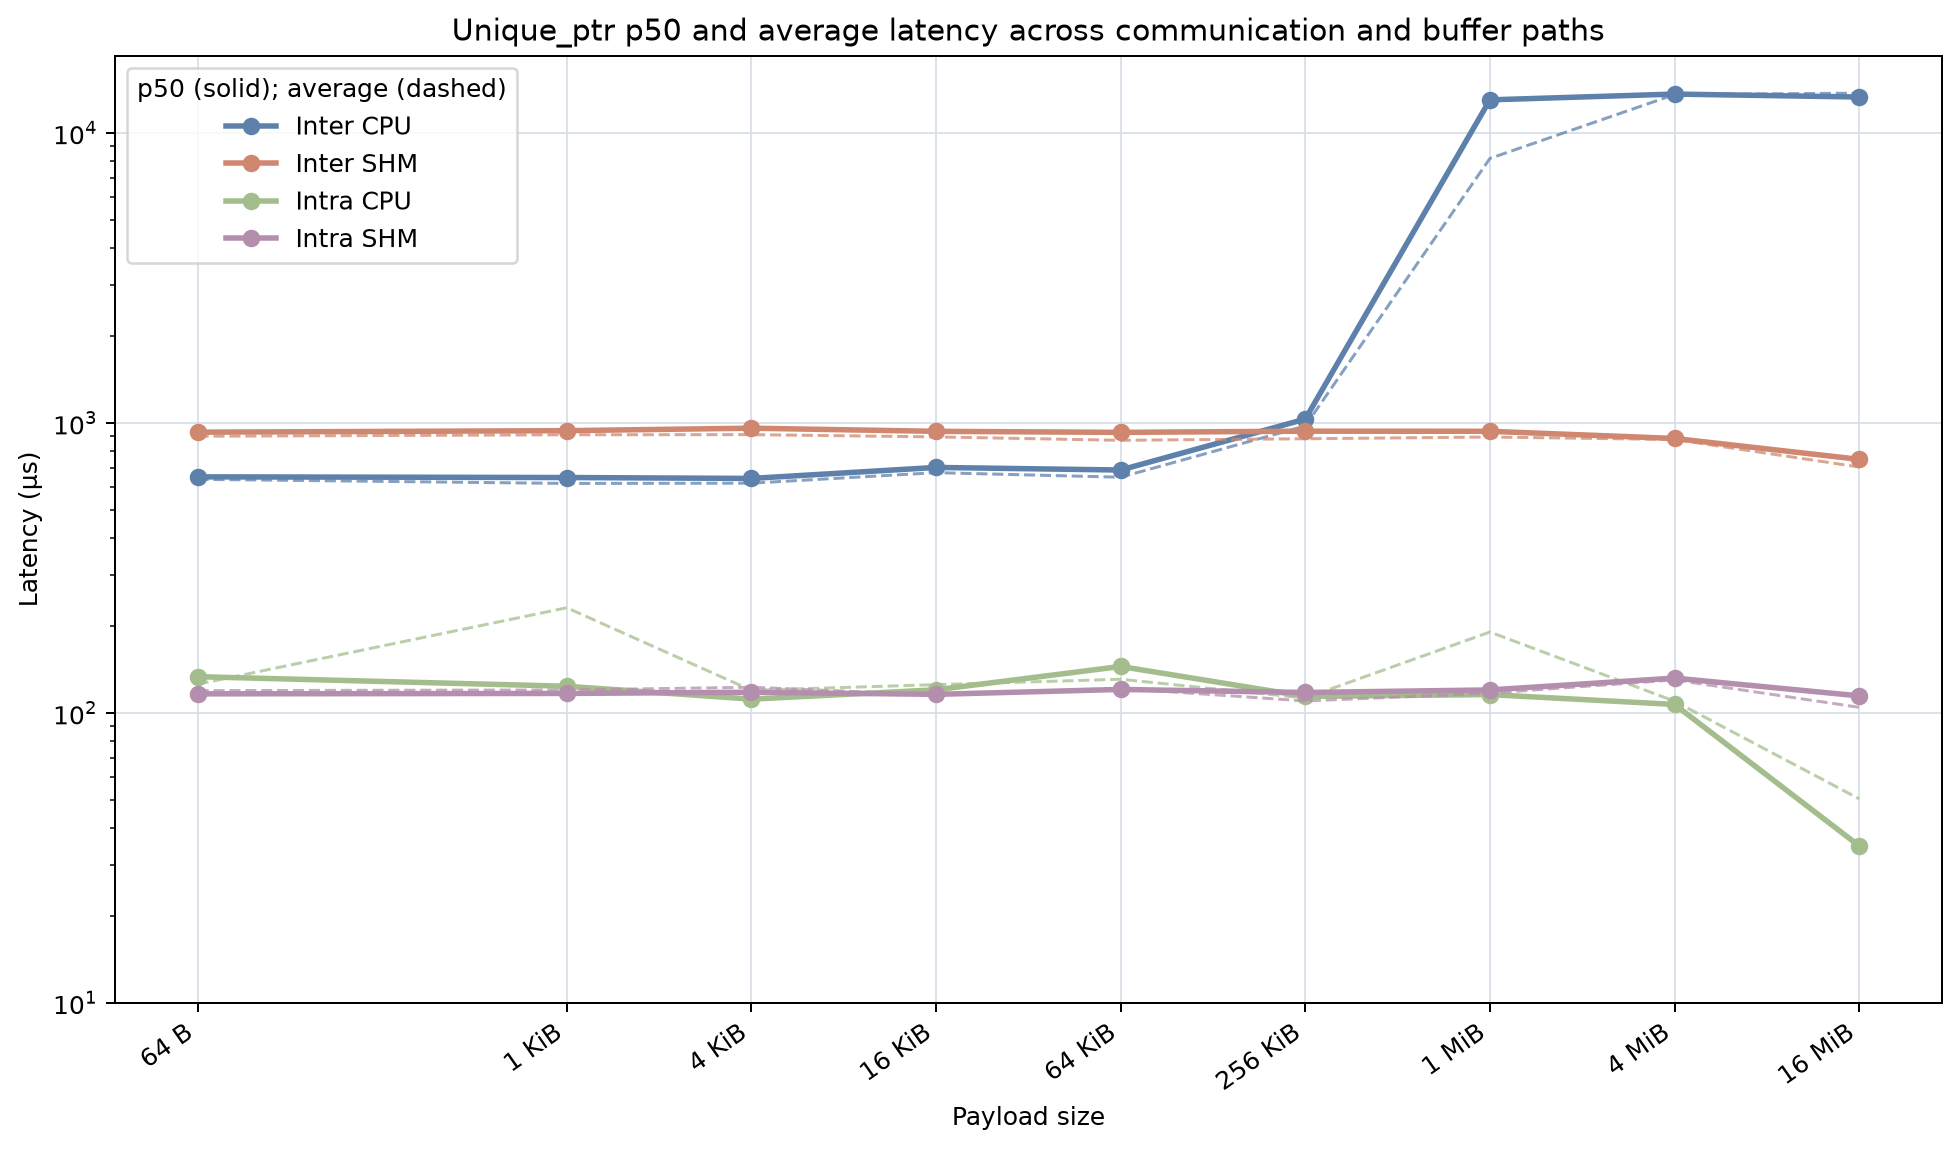
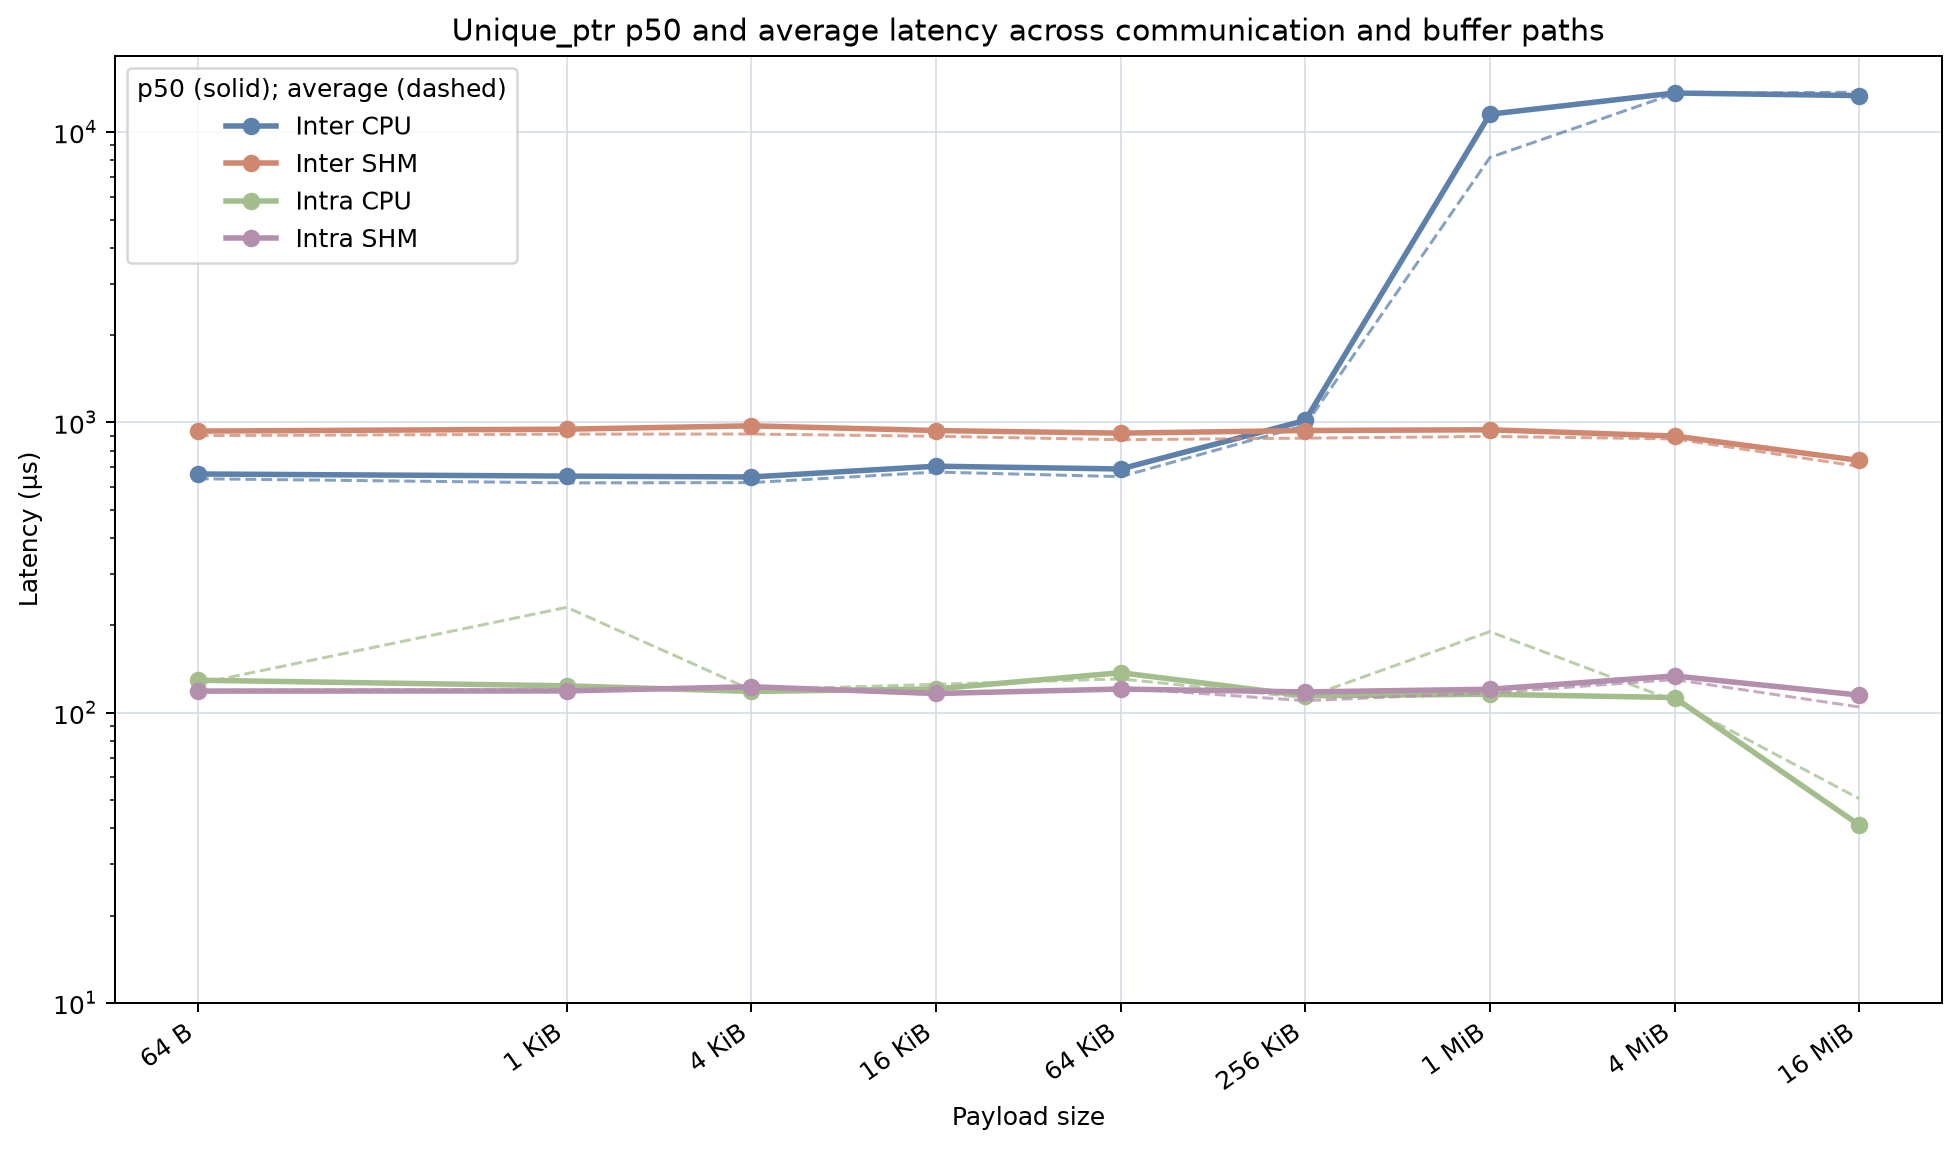
Aggregate latency percentiles from raw samples

diff --git a/tools/plot_benchmark_report.py b/tools/plot_benchmark_report.py
@@ -41,7 +41,7 @@ PATH_COLORS = {
 }
 SIZES = (64, 1024, 4096, 16384, 65536, 262144, 1048576, 4194304, 16777216)
 ONE_MIB = 1048576
-METRICS = ("p50_us", "p95_us", "p99_us")
+PERCENTILES = (("p50_us", 0.50), ("p95_us", 0.95), ("p99_us", 0.99))
 
 
 def size_label(size):
@@ -49,44 +49,6 @@ def size_label(size):
         if size >= divisor and size % divisor == 0:
             return f"{size // divisor} {suffix}"
     return f"{size} B"
-
-
-def read_repeat_results(data_dir):
-    values = defaultdict(list)
-    for variant in VARIANTS:
-        path = data_dir / f"{variant}.csv"
-        with path.open(newline="", encoding="utf-8") as stream:
-            rows = list(csv.DictReader(stream))
-        if len(rows) != 180:
-            raise RuntimeError(f"expected 180 rows in {path}, found {len(rows)}")
-        for row in rows:
-            if row["variant"] != variant:
-                raise RuntimeError(
-                    f"variant mismatch in {path}: {row['variant']} != {variant}"
-                )
-            key = (
-                row["variant"],
-                row["communication"],
-                row["backend"],
-                int(row["size_bytes"]),
-            )
-            values[key].append({metric: float(row[metric]) for metric in METRICS})
-
-    return dict(values)
-
-
-def read_results(data_dir):
-    return aggregate_results(read_repeat_results(data_dir))
-
-
-def aggregate_results(repeat_results):
-    return {
-        key: {
-            metric: median(row[metric] for row in rows)
-            for metric in METRICS
-        }
-        for key, rows in repeat_results.items()
-    }
 
 
 def read_raw_results(data_dir):
@@ -119,6 +81,28 @@ def read_raw_results(data_dir):
                 }
             )
     return dict(values)
+
+
+def percentile(values, p):
+    ordered = sorted(values)
+    return ordered[int((len(ordered) - 1) * p)]
+
+
+def aggregate_raw_results(raw_results):
+    for key, rows in raw_results.items():
+        if len(rows) != 100:
+            raise RuntimeError(
+                f"expected 100 raw samples for {key}, found {len(rows)}"
+            )
+    return {
+        key: {
+            metric: percentile(
+                [row["e2e_latency_us"] for row in rows], p
+            )
+            for metric, p in PERCENTILES
+        }
+        for key, rows in raw_results.items()
+    }
 
 
 def distribution_x_limit(raw_results, metric, tick_step):
@@ -342,9 +326,8 @@ def main():
     args.data_dir = args.data_dir.expanduser().resolve()
     args.output_dir = args.output_dir.expanduser().resolve()
     args.output_dir.mkdir(parents=True, exist_ok=True)
-    repeat_results = read_repeat_results(args.data_dir)
-    results = aggregate_results(repeat_results)
     raw_results = read_raw_results(args.data_dir)
+    results = aggregate_raw_results(raw_results)
     expected = len(VARIANTS) * len(PATHS) * len(SIZES)
     if len(results) != expected:
         raise RuntimeError(f"expected {expected} aggregated points, found {len(results)}")

diff --git a/BENCHMARK_REPORT.md b/BENCHMARK_REPORT.md
@@ -14,9 +14,9 @@ The main observations are:
   not describe the behavior well.
 - Inter-process SHM is slower than inter-process CPU for small payloads, but
   it avoids the large CPU-path latency regime. Baseline SHM p50 grows from
-  1.16 ms at 1 MiB to 2.28 ms at 16 MiB.
+  1.17 ms at 1 MiB to 2.29 ms at 16 MiB.
 - The three patches reduce the inter-process SHM p50 at 16 MiB to
-  0.72--0.75 ms, a 67.2--68.4% reduction from baseline.
+  0.72--0.75 ms, a 67.7--68.5% reduction from baseline.
 - The raw publish timing shows the same effect directly. At 1 MiB, SHM
   `publish()` p50 decreases from 672.6 µs for baseline to 410.1--423.4 µs
   for the patched variants.
@@ -37,8 +37,10 @@ The matrix contains:
 - 2 backends: `cpu` and `memfd` (called SHM below).
 
 The summary contains 720 cases and the raw files contain 14,400 measured
-sample rows. The summary table cells below are the median across five
-repeats of each repeat's percentile, in microseconds, shown as `p50 / p95`.
+sample rows. The summary table cells below are calculated directly from the 100
+raw measured samples for each case (five repeats × 20 samples), in
+microseconds, shown as `p50 / p95`. The percentile rank follows the benchmark
+executable's lower-rank selection rule.
 The 1 MiB histograms use the 100 raw e2e latency samples for each variant and
 backend directly.
 
@@ -53,19 +55,19 @@ The benchmark records two independent timing quantities:
 
 | Payload | Inter CPU | Inter SHM | Intra CPU | Intra SHM |
 |---:|---:|---:|---:|---:|
-| 64 B | 636.3 / 705.4 | 942.8 / 1,085.4 | 145.1 / 179.1 | 114.7 / 132.4 |
-| 1 KiB | 641.3 / 706.3 | 940.2 / 1,057.4 | 120.4 / 160.3 | 114.6 / 143.3 |
-| 4 KiB | 661.8 / 729.9 | 914.0 / 1,036.3 | 118.4 / 152.7 | 127.3 / 169.3 |
-| 16 KiB | 668.7 / 758.9 | 921.5 / 1,046.1 | 123.4 / 163.3 | 119.7 / 135.6 |
-| 64 KiB | 672.9 / 754.5 | 954.3 / 1,081.8 | 122.5 / 163.8 | 116.3 / 141.5 |
-| 256 KiB | 1,009.1 / 1,153.5 | 1,036.1 / 1,121.0 | 114.3 / 131.8 | 116.8 / 128.2 |
-| 1 MiB | 12,561.5 / 13,710.6 | 1,161.7 / 1,284.5 | 118.1 / 128.4 | 119.7 / 131.0 |
-| 4 MiB | 15,502.1 / 15,939.4 | 1,707.7 / 1,801.6 | 108.2 / 115.4 | 129.5 / 149.7 |
-| 16 MiB | 14,899.8 / 15,452.4 | 2,284.7 / 2,663.4 | 31.0 / 78.3 | 111.1 / 120.0 |
+| 64 B | 636.3 / 726.9 | 951.4 / 1,091.2 | 144.5 / 179.9 | 114.8 / 173.8 |
+| 1 KiB | 641.5 / 719.7 | 942.3 / 1,060.1 | 120.4 / 174.2 | 115.7 / 162.4 |
+| 4 KiB | 667.8 / 753.0 | 927.2 / 1,045.0 | 118.4 / 166.0 | 121.5 / 169.3 |
+| 16 KiB | 677.1 / 758.9 | 921.5 / 1,057.8 | 123.4 / 176.0 | 118.3 / 167.6 |
+| 64 KiB | 687.6 / 776.9 | 958.8 / 1,107.0 | 124.6 / 174.8 | 123.1 / 168.2 |
+| 256 KiB | 1,009.1 / 1,153.5 | 1,033.0 / 1,128.8 | 113.8 / 138.6 | 116.1 / 136.5 |
+| 1 MiB | 11,700.0 / 13,774.4 | 1,172.9 / 1,298.2 | 118.4 / 128.7 | 119.8 / 132.9 |
+| 4 MiB | 15,407.8 / 16,025.3 | 1,700.0 / 1,822.6 | 108.2 / 117.2 | 131.3 / 152.5 |
+| 16 MiB | 14,879.5 / 16,019.0 | 2,289.5 / 2,718.5 | 37.1 / 78.9 | 112.7 / 127.5 |
 
 The baseline plot shows that the CPU path enters a multi-millisecond regime at
 1 MiB and above. SHM avoids that regime, but its latency is not constant: the
-baseline SHM p50 increases from 1,161.7 µs at 1 MiB to 2,284.7 µs at 16 MiB.
+baseline SHM p50 increases from 1,172.9 µs at 1 MiB to 2,289.5 µs at 16 MiB.
 This is an observed size-dependent cost on the end-to-end path; it should not
 be interpreted as proof of a payload-sized copy on the SHM wire path.
 
@@ -88,11 +90,11 @@ inter-process cost:
 
 | Payload | SHM inter-process difference | CPU inter-process difference | Residual SHM-specific difference |
 |---:|---:|---:|---:|
-| 64 B | 828 µs | 491 µs | 337 µs |
-| 1 KiB | 826 µs | 521 µs | 305 µs |
-| 4 KiB | 787 µs | 543 µs | 243 µs |
-| 16 KiB | 802 µs | 545 µs | 257 µs |
-| 64 KiB | 838 µs | 550 µs | 288 µs |
+| 64 B | 837 µs | 492 µs | 345 µs |
+| 1 KiB | 827 µs | 521 µs | 306 µs |
+| 4 KiB | 806 µs | 549 µs | 256 µs |
+| 16 KiB | 803 µs | 554 µs | 250 µs |
+| 64 KiB | 836 µs | 563 µs | 273 µs |
 
 This leaves approximately 0.24--0.34 ms of fixed overhead for small
 inter-process SHM messages. It is reasonable to attribute this residual to
@@ -111,10 +113,9 @@ descriptor overhead.
 ![Baseline latency across the four communication and buffer paths](./figures/baseline-path-latency.png)
 
 The same four-path p50 and average view is also available for each patched
-variant. Solid lines are the median across five repeat-level p50 values;
-dashed lines are the arithmetic average across all 100 raw samples for each
-size/path case. The average is included because the inter-process CPU path is
-clearly bimodal.
+variant. Solid lines are p50 values calculated from all 100 raw samples for
+each size/path case; dashed lines are the arithmetic average of those samples.
+The average is included because the inter-process CPU path is clearly bimodal.
 
 - [`unique_ptr`](./figures/unique_ptr-path-latency.png)
 - [`lazy`](./figures/lazy-path-latency.png)
@@ -126,43 +127,43 @@ clearly bimodal.
 
 | Payload | Inter CPU | Inter SHM | Intra CPU | Intra SHM |
 |---:|---:|---:|---:|---:|
-| 64 B | 652.3 / 719.9 | 929.9 / 1,053.9 | 133.4 / 163.2 | 116.4 / 139.5 |
-| 1 KiB | 648.8 / 713.0 | 941.3 / 1,056.3 | 123.7 / 168.2 | 116.8 / 134.8 |
-| 4 KiB | 644.1 / 726.6 | 959.9 / 1,052.3 | 111.6 / 163.2 | 117.9 / 147.0 |
-| 16 KiB | 703.0 / 787.2 | 936.3 / 1,043.2 | 120.2 / 158.2 | 116.0 / 134.1 |
-| 64 KiB | 688.6 / 727.1 | 928.7 / 1,040.3 | 144.7 / 160.5 | 120.6 / 163.2 |
-| 256 KiB | 1,032.0 / 1,127.9 | 937.4 / 1,043.2 | 114.1 / 137.3 | 117.7 / 128.8 |
-| 1 MiB | 13,019.2 / 13,572.9 | 936.5 / 1,056.9 | 115.7 / 127.6 | 120.1 / 131.7 |
-| 4 MiB | 13,631.8 / 13,999.6 | 884.8 / 1,011.5 | 107.0 / 121.6 | 131.9 / 149.6 |
-| 16 MiB | 13,318.1 / 13,489.1 | 749.6 / 815.6 | 34.8 / 77.8 | 114.6 / 127.0 |
+| 64 B | 664.2 / 747.6 | 933.4 / 1,069.6 | 129.4 / 169.7 | 118.7 / 157.3 |
+| 1 KiB | 653.2 / 743.5 | 947.7 / 1,069.2 | 123.7 / 173.4 | 118.8 / 169.5 |
+| 4 KiB | 648.8 / 746.6 | 973.4 / 1,066.2 | 118.4 / 174.1 | 122.8 / 166.4 |
+| 16 KiB | 706.6 / 789.1 | 937.4 / 1,057.2 | 120.7 / 174.8 | 116.4 / 154.4 |
+| 64 KiB | 691.2 / 779.7 | 918.4 / 1,040.9 | 137.3 / 171.9 | 120.6 / 170.1 |
+| 256 KiB | 1,015.7 / 1,143.6 | 937.6 / 1,046.8 | 114.4 / 140.0 | 117.9 / 129.1 |
+| 1 MiB | 11,528.3 / 13,607.7 | 943.2 / 1,057.1 | 115.7 / 128.2 | 120.4 / 134.8 |
+| 4 MiB | 13,639.7 / 14,052.2 | 897.6 / 1,021.2 | 112.7 / 137.1 | 133.8 / 158.3 |
+| 16 MiB | 13,363.8 / 15,714.3 | 739.8 / 816.6 | 41.0 / 79.3 | 115.0 / 127.5 |
 
 ### `lazy`
 
 | Payload | Inter CPU | Inter SHM | Intra CPU | Intra SHM |
 |---:|---:|---:|---:|---:|
-| 64 B | 690.6 / 749.0 | 948.5 / 1,058.2 | 121.8 / 159.0 | 118.2 / 127.6 |
-| 1 KiB | 633.8 / 716.4 | 936.9 / 1,051.5 | 120.2 / 158.3 | 116.1 / 141.3 |
-| 4 KiB | 663.9 / 742.4 | 942.9 / 1,058.6 | 115.0 / 161.3 | 118.5 / 133.3 |
-| 16 KiB | 688.3 / 782.9 | 934.7 / 1,042.0 | 157.1 / 178.1 | 115.9 / 127.7 |
-| 64 KiB | 689.8 / 785.9 | 937.4 / 1,036.1 | 114.0 / 140.2 | 112.8 / 128.2 |
-| 256 KiB | 1,068.3 / 1,137.3 | 935.1 / 1,048.9 | 114.8 / 124.6 | 116.2 / 129.8 |
-| 1 MiB | 11,039.5 / 13,609.3 | 916.4 / 1,049.9 | 116.8 / 129.8 | 120.9 / 131.1 |
-| 4 MiB | 15,213.5 / 16,048.0 | 901.7 / 1,032.5 | 114.6 / 133.2 | 132.6 / 152.4 |
-| 16 MiB | 14,775.9 / 15,206.7 | 724.3 / 801.5 | 41.6 / 79.0 | 113.6 / 120.3 |
+| 64 B | 680.1 / 754.4 | 944.0 / 1,073.8 | 120.7 / 174.7 | 118.2 / 160.4 |
+| 1 KiB | 633.8 / 741.7 | 942.1 / 1,059.1 | 121.1 / 171.6 | 116.1 / 151.6 |
+| 4 KiB | 666.1 / 752.3 | 956.8 / 1,071.7 | 115.9 / 169.6 | 118.5 / 167.1 |
+| 16 KiB | 701.8 / 792.3 | 936.0 / 1,044.9 | 153.8 / 190.3 | 116.7 / 150.6 |
+| 64 KiB | 682.0 / 786.6 | 925.1 / 1,091.9 | 115.3 / 177.4 | 114.2 / 139.0 |
+| 256 KiB | 1,076.0 / 1,139.8 | 937.4 / 1,054.9 | 114.6 / 136.5 | 117.1 / 129.8 |
+| 1 MiB | 13,005.8 / 13,638.0 | 935.6 / 1,050.5 | 117.3 / 130.2 | 120.9 / 133.2 |
+| 4 MiB | 15,374.4 / 16,209.4 | 915.6 / 1,049.2 | 113.4 / 140.0 | 133.7 / 155.0 |
+| 16 MiB | 14,786.7 / 15,270.8 | 727.6 / 805.7 | 41.6 / 79.6 | 113.3 / 124.8 |
 
 ### `reserve`
 
 | Payload | Inter CPU | Inter SHM | Intra CPU | Intra SHM |
 |---:|---:|---:|---:|---:|
-| 64 B | 642.9 / 704.7 | 945.2 / 1,060.5 | 144.2 / 181.0 | 114.6 / 137.5 |
-| 1 KiB | 639.6 / 732.3 | 932.3 / 1,059.7 | 138.4 / 165.3 | 114.8 / 126.3 |
-| 4 KiB | 639.9 / 731.3 | 897.7 / 1,038.0 | 124.2 / 154.7 | 115.3 / 153.7 |
-| 16 KiB | 708.5 / 773.9 | 929.7 / 1,053.7 | 143.6 / 175.0 | 114.7 / 127.0 |
-| 64 KiB | 685.4 / 736.7 | 917.1 / 1,044.3 | 115.1 / 157.0 | 116.7 / 133.0 |
-| 256 KiB | 1,068.3 / 1,136.6 | 898.2 / 1,028.7 | 114.8 / 147.1 | 115.1 / 126.1 |
-| 1 MiB | 12,804.1 / 13,584.9 | 933.6 / 1,043.7 | 117.5 / 128.9 | 120.4 / 137.0 |
-| 4 MiB | 13,646.1 / 13,921.1 | 889.1 / 977.2 | 106.3 / 119.0 | 129.6 / 149.5 |
-| 16 MiB | 13,272.6 / 13,499.8 | 722.4 / 804.2 | 64.7 / 78.8 | 116.5 / 128.2 |
+| 64 B | 640.2 / 727.0 | 966.0 / 1,067.9 | 137.7 / 184.4 | 113.0 / 155.1 |
+| 1 KiB | 647.7 / 745.7 | 891.5 / 1,059.7 | 134.2 / 171.5 | 115.8 / 153.7 |
+| 4 KiB | 644.4 / 747.9 | 908.5 / 1,046.0 | 130.9 / 171.6 | 116.3 / 153.8 |
+| 16 KiB | 716.7 / 791.7 | 937.8 / 1,056.0 | 134.9 / 180.1 | 115.6 / 165.3 |
+| 64 KiB | 668.3 / 740.4 | 895.9 / 1,053.1 | 118.3 / 166.3 | 116.1 / 152.6 |
+| 256 KiB | 1,047.2 / 1,164.0 | 870.7 / 1,030.6 | 115.0 / 157.7 | 115.5 / 127.0 |
+| 1 MiB | 13,139.5 / 13,585.6 | 923.7 / 1,056.9 | 114.8 / 128.9 | 119.7 / 137.4 |
+| 4 MiB | 13,655.4 / 13,967.0 | 895.1 / 989.8 | 106.7 / 131.3 | 133.0 / 153.5 |
+| 16 MiB | 13,282.3 / 13,502.3 | 720.3 / 806.3 | 69.0 / 78.8 | 115.7 / 129.2 |
 
 The CPU regression-control results do not show a consistent patch effect. The
 SHM results do: at 16 MiB, all three patches reduce p50 by about two thirds.
@@ -170,9 +171,9 @@ The geometric-mean p50 ratios versus baseline are:
 
 | Variant | Inter CPU | Inter SHM | Intra CPU | Intra SHM |
 |---|---:|---:|---:|---:|
-| `unique_ptr` | 0.989× | 0.795× | 1.012× | 1.002× |
-| `lazy` | 1.003× | 0.792× | 1.035× | 0.995× |
-| `reserve` | 0.987× | 0.781× | 1.116× | 0.989× |
+| `unique_ptr` | 0.983× | 0.794× | 1.013× | 1.011× |
+| `lazy` | 1.027× | 0.793× | 1.012× | 0.996× |
+| `reserve` | 0.992× | 0.773× | 1.091× | 0.988× |
 
 ![Inter-process SHM patch comparison](./figures/inter-shm-variant-comparison.png)
 
